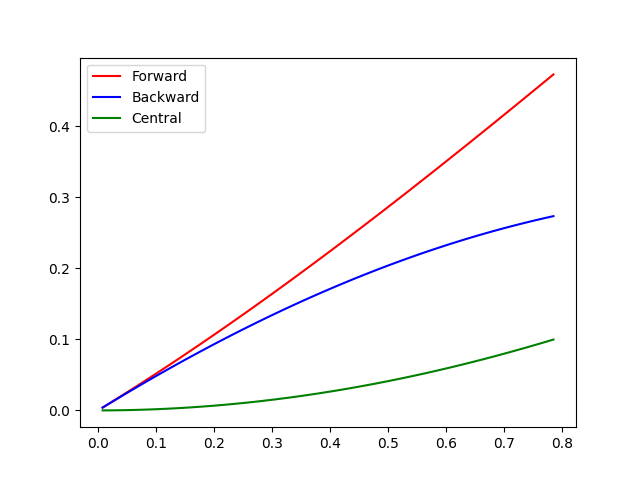
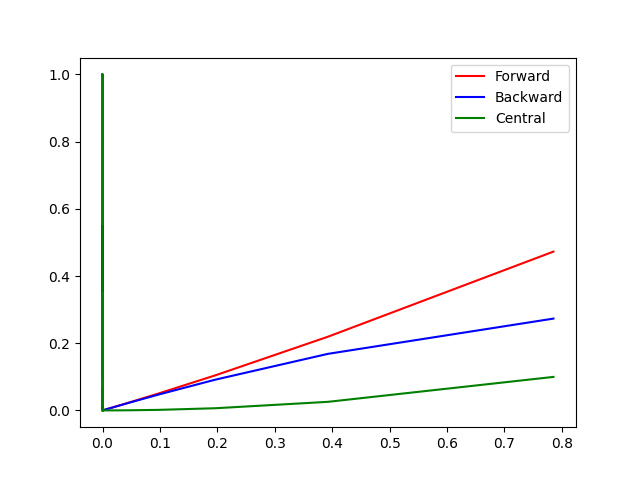
16-09

diff --git a/derivative.py b/derivative.py
@@ -2,8 +2,10 @@ from math import sin, cos, pi
 import numpy as np
 from matplotlib import pyplot as plt
 x=pi/4
-n=1000
-h= np.linspace(pi/4,0,n,endpoint=False)
+n=100
+h= [x]
+for i in range(n-1):
+    h.append(h[i]/2)
 fdh=np.zeros(n)
 bdh=np.zeros(n)
 cdh=np.zeros(n)
@@ -11,6 +13,7 @@ for i in range(n):
     fdh[i]=(sin(x+h[i])-sin(x))/h[i]
     bdh[i]=(sin(x)-sin(x-h[i]))/h[i]
     cdh[i]=(sin(x+h[i])-sin(x-h[i]))/(2*h[i])
+
 efh=np.zeros(n)
 ebh=np.zeros(n)
 ech=np.zeros(n)
